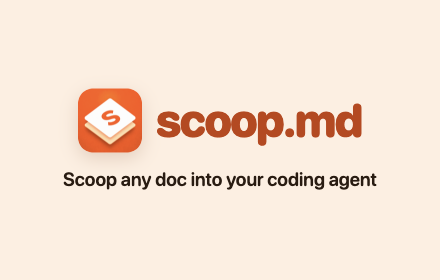
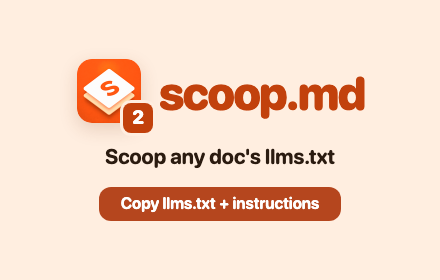
Store promo images for 0.6.0: "Scoop any doc's llms.txt" with the one-button popup and the "2" badge

Changed region(s): [[0.1477, 0.2, 0.8568, 0.8]]

diff --git a/extension/STORE.md b/extension/STORE.md
@@ -87,5 +87,5 @@ In `store-assets/` (copies in `dist/store/`), taken in Chrome with the real 0.6.
 | `4-hono.png` | 1280×800 | hono.dev: an llms.txt only (no instructions): "Copy llms.txt", copied; the toolbar shows "1" |
 | `5-not-developer.png` | 1280×800 | example.com: "This isn't a developer website. scoop.md is for developer docs." and nothing else |
 | `6-badge.png` | 1280×800 | The toolbar badge close-ups: "2" on docs.stripe.com, "1" on hono.dev, nothing on example.com |
-| `promo-small-440x280.png` | 440×280 | Small promo tile: icon, "scoop.md", "Scoop any doc into your coding agent" on #ffeee0 |
-| `promo-marquee-1400x560.png` | 1400×560 | Marquee: the same, with the popup from screenshot 1 |
+| `promo-small-440x280.png` | 440×280 | Small promo tile: the icon with the "2" badge, "scoop.md", "Scoop any doc's llms.txt" and the "Copy llms.txt + instructions" button on #ffeee0 |
+| `promo-marquee-1400x560.png` | 1400×560 | Marquee: "Scoop any doc's llms.txt" with the docs.stripe.com popup (llms.txt field, instructions for agents, "Copied ✓") and the toolbar icon showing "2" |
